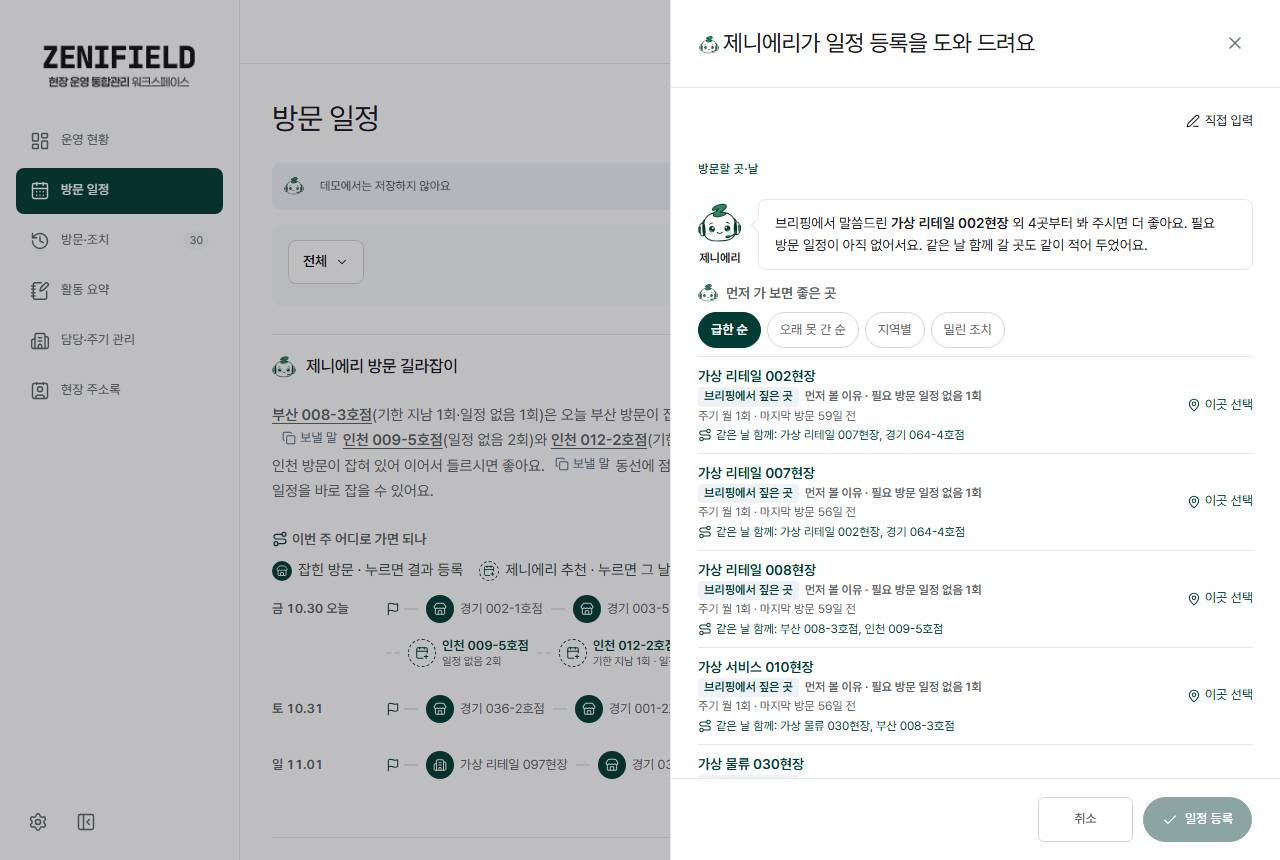
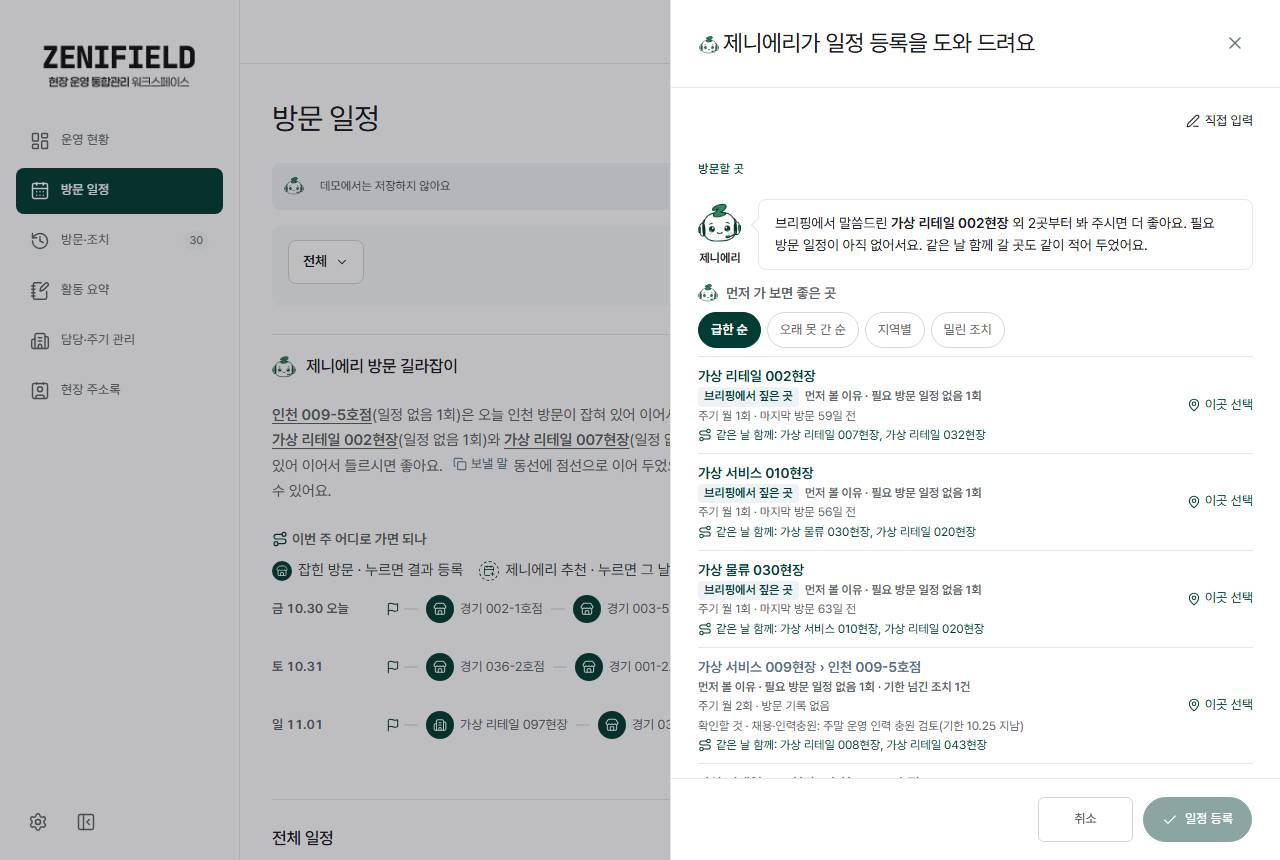
날짜 표기 하나로: 달력 안 날짜 이동·제목 삭제(조회 기간 하나로), 단위별 달력은 조회 기간 주를 따름, 일정 등록 날짜 한 칸으로 합침, 추천 동선 줄 끊김 수정

diff --git a/app/platform/app.tsx b/app/platform/app.tsx
@@ -99,6 +99,8 @@ export default function PlatformApp({initialData,liveMode=false,onSaveLive,onDem
  function chooseType(t:TargetType){setTypeState(t);setKind('');if(t==='site')setStoreState('')}
  // 메뉴·필터 전환은 transition으로: 클릭은 바로 반응하고, 무거운 화면을 그리는 동안 상단 진행 막대를 보인다.
  const [pending,startTransition]=useTransition();
+ // 방문 일정의 단위별·주간 달력은 위 조회 기간 하나로 움직인다(달력 안에 따로 주 이동을 두지 않는다). 처음 들어와 기간이 한 달이면 그 안의 이번 주(또는 첫 주)로 맞춘다
+ useEffect(()=>{const vv=view==='auto'?(me.role==='manager'?'calendar':'units'):view;if(page==='visits'&&(vv==='units'||(vv==='calendar'&&calendarMode==='week'))&&daysBetween(start,end)!==6)setPeriod(...week(now>=start&&now<=end?now:start) as [string,string])},[page,view,calendarMode]);// eslint-disable-line react-hooks/exhaustive-deps
  function setPeriod(a:string,b:string){if(!a||!b||a>b)return;if(daysBetween(a,b)>366){setToast('한 번에 최대 1년 범위로 조회해 주세요.');return}setCustomPeriod(false);startTransition(()=>{setStart(a);setEnd(b)})}
  function go(p:string,k=''){setBriefSite('');window.scrollTo(0,0);setMobile(false);startTransition(()=>{setPage(p);setKind(k)});setMobile(false);setNotice(false);setDetail(null);if(k==='today'){setPeriod(now,now);setView('list')}else setView(k?'list':'auto')}
  function resetFilters(){setDivision('');chooseTeam('');setRegion('');setStatus('');setSearch('');setKind('');setRecordType('all');setPeriod(...monthRange(now) as [string,string])}
@@ -158,7 +160,7 @@ export default function PlatformApp({initialData,liveMode=false,onSaveLive,onDem
  {page==='briefings'&&<div className="weekly-content"><BriefingPage key={briefSite} {...briefingProps} start={start} end={end} setPeriod={setPeriod} initialSite={briefSite}/></div>}
  {page==='sites'&&<SitesGuide c={c}/>}{page==='sites'&&<Hierarchy c={c}/>}{page==='contacts'&&<ContactsGuide c={c}/>}{page==='contacts'&&<ContactDirectory c={c}/>}
  {page==='requirements'&&<><TypeTabs c={c}/><RequirementList c={c}/></>}
- {page==='visits'&&<ScheduleGuide c={c}/>}{page==='visits'&&<section className="panel schedule-panel"><PanelTitle title={kind==='today'?'오늘 일정':'전체 일정'}><div className="segmented">{me.role!=='manager'&&<button className={vview==='units'?'active':''} onClick={()=>setView('units')}>{scopeUnits(c).title}별</button>}<button className={vview==='calendar'&&calendarMode==='month'?'active':''} onClick={()=>{setView('calendar');setCalendarMode('month');setPeriod(...monthRange(start) as [string,string])}}>월간</button><button className={vview==='calendar'&&calendarMode==='week'?'active':''} onClick={()=>{setView('calendar');setCalendarMode('week');setPeriod(...week(now) as [string,string])}}>주간</button><button className={vview==='list'?'active':''} onClick={()=>setView('list')}>목록</button></div><button className="btn small" onClick={exportCsv}><Download size={14}/>CSV</button></PanelTitle><div className="record-type-bar"><select aria-label="방문 대상 유형 필터" value={recordType} onChange={e=>setRecordType(e.target.value)}><option value="all">현장·매장 전체</option><option value="site">현장 방문만</option><option value="store">매장 방문만</option></select><button className="textbtn" onClick={()=>go('requirements','unplanned')}>필요 회차·계획 누락 확인<ChevronRight size={14}/></button></div><div className="tabs">{['','예정','완료','지연','취소'].map(k=><button key={k} className={kind===k?'active':''} onClick={()=>setKind(k)}>{k||'전체 일정'}</button>)}</div>{vview==='units'?<ScheduleUnits c={c} rows={recordRows}/>:vview==='list'?<VisitRecords c={c} rows={recordRows}/>:<VisitCalendar visits={recordRows} start={start} end={end} mode={calendarMode} setPeriod={setPeriod} onMode={setCalendarMode} sname={id=>data.sites.find(s=>s.id===id)?.name||''} uname={uname} targetLabel={v=>`${(v as FieldVisit).targetType==='store'?'[매장]':'[현장]'} ${label(v as FieldVisit)}`} onVisit={v=>open('visit',v,{result:v.status==='completed'})} onAdd={editable?date=>open('visit',undefined,{date,targetType:type}):undefined}/>}</section>}
+ {page==='visits'&&<ScheduleGuide c={c}/>}{page==='visits'&&<section className="panel schedule-panel"><PanelTitle title={kind==='today'?'오늘 일정':'전체 일정'}><div className="segmented">{me.role!=='manager'&&<button className={vview==='units'?'active':''} onClick={()=>{setView('units');setPeriod(...week(now>=start&&now<=end?now:start) as [string,string])}}>{scopeUnits(c).title}별</button>}<button className={vview==='calendar'&&calendarMode==='month'?'active':''} onClick={()=>{setView('calendar');setCalendarMode('month');setPeriod(...monthRange(start) as [string,string])}}>월간</button><button className={vview==='calendar'&&calendarMode==='week'?'active':''} onClick={()=>{setView('calendar');setCalendarMode('week');setPeriod(...week(now) as [string,string])}}>주간</button><button className={vview==='list'?'active':''} onClick={()=>setView('list')}>목록</button></div><button className="btn small" onClick={exportCsv}><Download size={14}/>CSV</button></PanelTitle><div className="record-type-bar"><select aria-label="방문 대상 유형 필터" value={recordType} onChange={e=>setRecordType(e.target.value)}><option value="all">현장·매장 전체</option><option value="site">현장 방문만</option><option value="store">매장 방문만</option></select><button className="textbtn" onClick={()=>go('requirements','unplanned')}>필요 회차·계획 누락 확인<ChevronRight size={14}/></button></div><div className="tabs">{['','예정','완료','지연','취소'].map(k=><button key={k} className={kind===k?'active':''} onClick={()=>setKind(k)}>{k||'전체 일정'}</button>)}</div>{vview==='units'?<ScheduleUnits c={c} rows={recordRows}/>:vview==='list'?<VisitRecords c={c} rows={recordRows}/>:<VisitCalendar visits={recordRows} start={start} end={end} mode={calendarMode} setPeriod={setPeriod} onMode={setCalendarMode} sname={id=>data.sites.find(s=>s.id===id)?.name||''} uname={uname} targetLabel={v=>`${(v as FieldVisit).targetType==='store'?'[매장]':'[현장]'} ${label(v as FieldVisit)}`} onVisit={v=>open('visit',v,{result:v.status==='completed'})} onAdd={editable?date=>open('visit',undefined,{date,targetType:type}):undefined}/>}</section>}
  {(page==='results'||page==='actions')&&<><VisitActionGuide c={c}/><section className="panel"><PanelTitle title="방문·조치 목록"><button className="btn small" onClick={exportCsv}><Download size={14}/>CSV</button></PanelTitle>
  <div className="tabs va-tabs" role="tablist" aria-label="방문·조치 보기">{[['미처리','안 끝난 조치',openIssues.length],['기한 초과','기한 넘긴 조치',openIssues.filter(a=>a.dueDate<now).length],['완료','완료 조치',scopedActions.filter(a=>a.state==='완료').length]].filter(([k,,n])=>(n as number)>0||(page==='actions'&&kind===k)).map(([k,l,n])=><button key={k as string} role="tab" aria-selected={page==='actions'&&kind===k} className={page==='actions'&&kind===k?'active':''} onClick={()=>go('actions',k as string)}>{l}<small>{n}</small></button>)}<span className="va-sep" aria-hidden="true"/><GuideTabs bare c={c} rows={scopedVisits.filter(v=>(recordType==='all'||v.targetType===recordType))} start={start} end={end} now={now} kind={page==='results'?kind:'-'} setKind={k=>{if(page!=='results')go('results',k);else setKind(k)}}/></div>
  {page==='results'?<><div className="list-tools"><select aria-label="대상 유형 필터" value={recordType} onChange={e=>setRecordType(e.target.value)}><option value="all">현장·매장 전체</option><option value="site">현장만</option><option value="store">매장만</option></select></div><VisitRecords c={c} rows={recordRows} guide={kind}/></>:<ActionRecords c={c} rows={issueRows} tools={<select aria-label="대상 유형 필터" value={recordType} onChange={e=>setRecordType(e.target.value)}><option value="all">현장·매장 전체</option><option value="site">현장만</option><option value="store">매장만</option></select>}/>}</section></>}

diff --git a/app/platform/ai-plan.tsx b/app/platform/ai-plan.tsx
@@ -19,17 +19,16 @@ export function AiPlanForm({c,modal,error,onSave,onClose}:{c:Context;modal:any;e
  const pick=(t:Target)=>{setType(t.type);setSite(t.siteId);setStore(t.storeId||'')};
  const target=c.targets.find(t=>t.id===(type==='store'?store:site)),owners=(target?.managerIds||[]).filter(id=>c.me.role!=='manager'||id===c.me.id),[visitor,setVisitor]=useState(c.me.id),owner=owners.includes(visitor)?visitor:owners[0]||'';
  const parents=c.data.sites.filter(s=>c.targets.some(t=>t.siteId===s.id)),stores=c.data.stores.filter(s=>s.siteId===site&&c.targets.some(t=>t.id===s.id));
- const ready=(!!plan||!!pickedDay)&&!!target&&!!owner&&/^\d{4}-\d{2}-\d{2}$/.test(values.plannedDate);
+ const ready=!!target&&!!owner&&/^\d{4}-\d{2}-\d{2}$/.test(values.plannedDate);
  // 초안(AI·데모)은 빈칸만 채운다. 사람이 고른 값이 항상 우선: 내 일정에서 고른 날짜, 일정 잡기로 정해진 대상(locked), 이미 고른 대상·목적.
  function draft(d:AiPlanDraft){setPlan(d);const valid=(x:string)=>/^\d{4}-\d{2}-\d{2}$/.test(x);setValues({plannedDate:pickedDay||(valid(d.plannedDate)?d.plannedDate:values.plannedDate),time:/^\d{2}:\d{2}$/.test(d.time)?d.time:values.time,purpose:values.purpose!==purposes[0]?values.purpose:purposes.includes(d.purpose)?d.purpose:purposes[0],precheck:values.precheck||d.precheck});setHint(d.target);const t=!locked&&!target&&matchTarget(c.targets,d.target);if(t)pick(t)}
  function submit(e:FormEvent<HTMLFormElement>){e.preventDefault();if(!ready)return;onSave('visit',{entry:'manual',...values,targetType:type,siteId:site,storeId:type==='store'?store:null,visitorId:owner,status:'planned',actualDate:null,actualTime:'',detail:'',notes:'',result:'',cancelReason:'',requirementId:modal.requirementId||pickedReq||null})}
  return <form className="record-form ai-form" onSubmit={submit}><div className="form-scroll"><div className="ai-switch"><button type="button" className="textbtn" onClick={()=>c.open('visit',undefined,{...modal,ai:false,manual:true})}><PenLine size={14}/>직접 입력</button></div>
  <fieldset className="form-grid" disabled={!c.editable||c.saving}>
  <Permissions need={['microphone']}/>
- <div className="form-section first wide">방문할 곳·날</div>
+
+ {!target&&!locked&&<div className="form-section first wide">방문할 곳</div>}
  {!target&&!locked&&<VisitSuggest c={c} visitor={owner||c.me.id} onPick={(x,pre)=>{pick(x);if(pre)setValues(v=>({...v,precheck:v.precheck||pre}))}}/>}
- {target?<ScheduleHints c={c} target={target} visitor={owner||c.me.id} picked={pickedDay} onPick={(d,tm,rid)=>{setPickedDay(d);setPickedReq(rid);setValues(v=>({...v,plannedDate:d,time:tm||v.time}))}}/>
-  :<MySchedule c={c} visitor={owner||c.me.id} window={modal.requirementId&&modal.dueDate?{start:c.now,end:modal.dueDate}:null} picked={pickedDay} onPick={d=>{setPickedDay(d);setSeed(`${Number(d.slice(5,7))}월 ${Number(d.slice(8))}일`)}}/>}
  <div className="form-section wide">말·글로 일정 입력</div>
  <AiComposer mode="plan" seed={seed} demo={c.demo!==false} onDraft={d=>draft(d as unknown as AiPlanDraft)}/>
  <div className="form-section wide">방문 대상</div>
@@ -39,10 +38,14 @@ export function AiPlanForm({c,modal,error,onSave,onClose}:{c:Context;modal:any;e
  <Field label={type==='site'?'방문 현장 *':'상위 현장 *'} wide><select required value={site} disabled={locked} onChange={e=>{setSite(e.target.value);setStore('')}}><option value="">현장 선택</option>{parents.map(s=><option key={s.id} value={s.id}>{s.name} · {s.client}</option>)}</select></Field>
  {type==='store'&&<Field label="방문 매장 *" wide><select required value={store} disabled={locked} onChange={e=>setStore(e.target.value)}><option value="">소속 매장 선택</option>{stores.map(s=><option key={s.id} value={s.id}>{s.name} · {s.code}</option>)}</select></Field>}
  {owners.length>1&&<Field label="방문자 *"><select value={owner} onChange={e=>setVisitor(e.target.value)}>{owners.map(id=><option key={id} value={id}>{c.uname(id)}</option>)}</select></Field>}
- {(plan||pickedDay)&&<><div className="form-section wide">{plan&&<AiMark/>}{plan?'AI 일정 초안 검토':'일정 검토'}</div>
+ <div className="form-section wide">방문 날짜</div>
+ {target?<ScheduleHints c={c} target={target} visitor={owner||c.me.id} picked={pickedDay} onPick={(d,tm,rid)=>{setPickedDay(d);setPickedReq(rid);setValues(v=>({...v,plannedDate:d,time:tm||v.time}))}}/>
+  :<MySchedule c={c} visitor={owner||c.me.id} window={modal.requirementId&&modal.dueDate?{start:c.now,end:modal.dueDate}:null} picked={pickedDay} onPick={d=>{setPickedDay(d);setValues(v=>({...v,plannedDate:d}));setSeed(`${Number(d.slice(5,7))}월 ${Number(d.slice(8))}일`)}}/>}
  <Field label="방문 예정일 *"><input type="date" required value={values.plannedDate} onChange={e=>setValues({...values,plannedDate:e.target.value})}/></Field><Field label="예정 시간"><input type="time" value={values.time} onChange={e=>setValues({...values,time:e.target.value})}/></Field>
+ <div className="form-section wide">{plan&&<AiMark/>}{plan?'AI 초안 검토':'방문 내용'}</div>
+ {<>
  <Field label="방문 목적 *" wide><select value={values.purpose} onChange={e=>setValues({...values,purpose:e.target.value})}>{purposes.map(p=><option key={p}>{p}</option>)}</select></Field>
- <Field label="사전 확인사항" wide><textarea rows={2} maxLength={1500} value={values.precheck} onChange={e=>setValues({...values,precheck:e.target.value})}/></Field>
+ <Field label="사전 확인사항 (선택)" wide><textarea rows={2} maxLength={1500} value={values.precheck} onChange={e=>setValues({...values,precheck:e.target.value})}/></Field>
  {plan?.confidence==='low'&&<p className="form-hint wide warn">확신이 낮아요. 날짜와 대상을 꼭 확인해 주세요.</p>}</>}
  </fieldset>{error&&<p className="form-error" role="alert">{error}</p>}</div><div className="form-footer"><button type="button" className="btn" onClick={onClose}>취소</button>{c.editable&&<button className="btn primary" type="submit" disabled={c.saving||!ready}><Check size={16}/>{c.saving?'저장 중':'일정 등록'}</button>}</div></form>
 }

diff --git a/app/visit-calendar.tsx b/app/visit-calendar.tsx
@@ -10,13 +10,12 @@ export function VisitCalendar({visits,start,end,mode,setPeriod,onMode,sname,unam
  const label=(v:Visit)=>targetLabel?targetLabel(v):sname(v.siteId);
  const now=today();const [selected,setSelected]=useState(now);const anchor=start||now;const selectedDate=(!start||selected>=start)&&(!end||selected<=end)?selected:anchor;
  const dates=mode==='week'?Array.from({length:7},(_,i)=>shift(week(anchor)[0],i)):(()=>{const [first,last]=monthRange(anchor);const offset=(new Date(first+'T12:00:00Z').getUTCDay()+6)%7;const count=Number(last.slice(8));const length=Math.ceil((count+offset)/7)*7;return Array.from({length},(_,i)=>shift(first,i-offset))})();
- function move(delta:number){if(mode==='week'){const [a,b]=week(shift(anchor,delta*7));setPeriod(a,b)}else{const d=new Date(anchor.slice(0,7)+'-01T12:00:00Z');d.setUTCMonth(d.getUTCMonth()+delta);const [a,b]=monthRange(d.toISOString().slice(0,10));setPeriod(a,b)}}
  function changeMode(m:'week'|'month'){onMode(m);const [a,b]=m==='week'?week(anchor):monthRange(anchor);setPeriod(a,b)}
  const dated=(v:Visit)=>v.status==='completed'?v.actualDate:v.plannedDate;
  visits=visits.filter(v=>inRange(dated(v),start,end));
  const dayItems=visits.filter(v=>dated(v)===selectedDate).sort((a,b)=>a.time.localeCompare(b.time));
  return <div className={'calendar '+mode+(compact?' compact':'')}>
- <div className="calendar-toolbar"><div className="calendar-navigation"><h3>{mode==='month'?anchor.slice(0,4)+'년 '+Number(anchor.slice(5,7))+'월':short(dates[0])+' – '+short(dates[6])}</h3><button className="iconbtn" aria-label={mode==='month'?'이전 달':'이전 주'} onClick={()=>move(-1)}><ChevronLeft size={16}/></button><button className="iconbtn" aria-label={mode==='month'?'다음 달':'다음 주'} onClick={()=>move(1)}><ChevronRight size={16}/></button><button className="today-btn" onClick={()=>{const [a,b]=mode==='week'?week(now):monthRange(now);setPeriod(a,b);setSelected(now)}}>오늘</button></div>{compact&&<div className="segmented"><button className={mode==='week'?'active':''} onClick={()=>changeMode('week')}>주간</button><button className={mode==='month'?'active':''} onClick={()=>changeMode('month')}>월간</button></div>}</div>
+ {/* 달력 안에 날짜 제목·이동 화살표를 두지 않는다: 보이는 기간은 화면 위 조회 기간 [◀ 기간 ▶] 하나로만 바꾼다 */}<div className="calendar-toolbar">{compact&&<div className="segmented"><button className={mode==='week'?'active':''} onClick={()=>changeMode('week')}>주간</button><button className={mode==='month'?'active':''} onClick={()=>changeMode('month')}>월간</button></div>}</div>
  <div className="calendar-legend">{[['예정','blue'],['완료','green'],['지연','red'],['취소','gray']].map(([s,c])=><span key={s}><i className={c}/>{s}</span>)}<span className="calendar-help">날짜 선택으로 일정을 확인하세요</span></div>
  <div className="calendar-grid" role="group" aria-label={mode==='week'?'주간 방문 캘린더':'월간 방문 캘린더'}>{mode==='month'&&weekdays.map(d=><div className="calendar-weekday" key={d}>{d}</div>)}{dates.map((d,i)=>{const list=visits.filter(v=>dated(v)===d).sort((a,b)=>a.time.localeCompare(b.time));return <div key={d} className={'calendar-day '+(d===now?'is-today ':'')+(d===selectedDate?'is-selected ':'')+(mode==='month'&&d.slice(0,7)!==anchor.slice(0,7)?'outside':'')}><button className="calendar-date" aria-label={d+' 일정 선택'} aria-pressed={d===selectedDate} onClick={()=>setSelected(d)}>{mode==='week'&&<span>{weekdays[i]}</span>}<b>{Number(d.slice(8))}</b>{list.length>0&&<em>{list.length}</em>}</button><div className="calendar-events">{list.slice(0,mode==='month'?2:compact?2:5).map(v=><button className={'calendar-event '+({예정:'blue',완료:'green',지연:'red',취소:'gray'} as any)[visitState(v,now)]} key={v.id} onClick={()=>{setSelected(d);onVisit(v)}} title={`${label(v)} · ${uname(v.visitorId)} · ${v.purpose} · ${visitState(v,now)}`}><span>{v.time||'시간 미정'} <i>{visitState(v,now)}</i></span><b>{label(v)}</b><small>{uname(v.visitorId)} · {v.purpose}</small></button>)}{list.length>(mode==='month'?2:compact?2:5)&&<button className="more-events" onClick={()=>setSelected(d)}>+ {list.length-(mode==='month'?2:compact?2:5)}개 더 보기</button>}{!list.length&&mode==='week'&&<span className="no-calendar-event">일정 없음</span>}</div></div>})}</div>
  <div className="selected-day"><div><span className="selected-day-icon"><CalendarIcon/></span><b>{nice(selectedDate)}</b><span>{dayItems.length}건의 방문</span>{onAdd&&<button className="textbtn" onClick={()=>onAdd(selectedDate)}><Plus size={14}/>일정 등록</button>}</div>{dayItems.length?<div className="selected-events">{dayItems.map(v=><button key={v.id} className="selected-event" onClick={()=>onVisit(v)}><span className="selected-time">{v.time||'미정'}</span><div><b>{label(v)}</b><small>{uname(v.visitorId)} · {v.purpose}</small></div><Badge>{visitState(v,now)}</Badge><ChevronRight size={14}/></button>)}</div>:<p className="selected-empty">선택한 날짜에 등록된 방문이 없습니다.</p>}</div>

diff --git a/app/platform/views.tsx b/app/platform/views.tsx
@@ -47,13 +47,13 @@ function PrioritySchedule({c,rows}:{c:Context;rows:FieldVisit[]}){
 }
 // 방문 일정 직급별 달력(파트장 이상): 행 = 바로 아래 단위(파트장 잡매니저·팀장 파트·사업부장/관리자 팀), 열 = 한 주 7일.
 // 칸 = 그날 일정 수(완료/예정, 지연 있으면 지연 수). 칸이나 이름을 누르면 그 단위로 좁힌다. 조직 순서, 순위 없음.
+// 보이는 주 = 위 조회 기간(시작일이 든 주). 주 이동은 조회 기간 [◀ ▶] 하나로만 한다.
 export function ScheduleUnits({c,rows}:{c:Context;rows:FieldVisit[]}){
- const s=scopeUnits(c),[wk,setWk]=useState(()=>weekOf(c.now)),days=Array.from({length:7},(_,i)=>dayShift(wk,i));
+ const s=scopeUnits(c),wk=weekOf(c.start),days=Array.from({length:7},(_,i)=>dayShift(wk,i));
  const list=useMemo(()=>s.units.map(u=>{const ids=new Set(u.targets.map(t=>t.id)),cells=days.map(d=>{const vs=rows.filter(v=>ids.has(targetOf(v))&&(v.status==='completed'?v.actualDate:v.plannedDate)===d);return {d,n:vs.length,done:vs.filter(v=>v.status==='completed').length,late:vs.filter(v=>v.status==='planned'&&(v.plannedDate||'')<c.now).length}});
   const m=aggregate(u.targets.filter(t=>t.type===c.type),c.visits,c.start,c.end,c.now);return {u,cells,gap:m.delayed+m.unplanned}}),[s.units,rows,wk,c.visits,c.type,c.start,c.end,c.now]);
  if(!list.length)return <Empty text="이 기간 일정이 없어요."/>;
  return <div className="unit-cal">
-  <div className="unit-cal-nav"><button type="button" className="iconbtn" aria-label="이전 주" onClick={()=>setWk(dayShift(wk,-7))}><ChevronLeft size={16}/></button><b>{short(days[0])} – {short(days[6])}</b><button type="button" className="iconbtn" aria-label="다음 주" onClick={()=>setWk(dayShift(wk,7))}><ChevronRight size={16}/></button>{wk!==weekOf(c.now)&&<button type="button" className="textbtn" onClick={()=>setWk(weekOf(c.now))}>이번 주</button>}</div>
   <div className="unit-cal-scroll"><table className="unit-cal-table"><caption className="sr-only">{s.title}별 주간 방문 일정</caption>
    <thead><tr><th scope="col">{s.title}</th>{days.map(d=><th key={d} scope="col" className={d===c.now?'today':''}>{['월','화','수','목','금','토','일'][days.indexOf(d)]}<small>{short(d)}</small></th>)}<th scope="col">일정 잡을 회차</th></tr></thead>
    <tbody>{list.map(x=><tr key={x.u.key}><th scope="row"><button type="button" className="link" onClick={()=>s.drill(x.u.key)}>{x.u.label}</button></th>

diff --git a/app/platform/styles.css b/app/platform/styles.css
@@ -1099,3 +1099,7 @@ html.zf-calm .zf-ai-mark,html.zf-calm .zeni-working-dots i{animation:none!import
 .settings [role=tabpanel]>.panel,.settings [role=tabpanel]>.panel::before{border-top:0!important;box-shadow:none}
 .bulk-table th:nth-child(1){width:56px}.bulk-table th:nth-child(2){width:32%}.bulk-table th:nth-child(3){width:72px}
 .app-shell .ai-brief-cheer h3{display:flex;align-items:center;gap:6px}.app-shell .ai-brief-cheer h3 .copy-button{margin-left:auto}
+/* 추천 동선 한 줄이 중간에 끊겨 보이지 않게: 줄바꿈 대신 가로로 이어 두고 넘치면 그 줄만 가로 스크롤 */
+.route-line{flex-wrap:nowrap;overflow-x:auto;overscroll-behavior-x:contain;scrollbar-width:thin;padding-bottom:2px}
+.route-line>li{flex:none}
+.route-map>li{min-width:0}

diff --git a/PROJECT_RULE.md b/PROJECT_RULE.md
@@ -39,7 +39,7 @@
 | Guard | Condition → Action |
 |-------|-------------------|
 | DC-DESIGN | UI·디자인 변경 → `docs/DESIGN-zenielfield.md` 해당 절 확인 → 지침에 없거나 다르면 지침 먼저 갱신 → **같은 변경에서 `AGENTS.md` "현재 디자인 결정"과 아래 DC-DESIGN-* 행도 갱신(빠지면 미완료)** → 구현 → 390/820/1280px 실화면 검증 → `docs/` 기록. 대체·폐기된 기준은 `docs/design-history.md`로 옮기고 지침·룰에 남기지 않음 |
-| DC-DESIGN-SHELL | 메뉴 = 모든 직급 같은 이름·같은 화면 구성(범위만 직급별): 운영 현황·방문 일정·방문 기록·후속 조치·활동 요약·담당·주기 관리·현장 주소록, 설정 = 사이드바 하단 아이콘, 페이지 키 불변. 로고 `BrandIdentity` 188/180/158px. 현재 메뉴 딥그린 채움·점 금지. 데모 = 상단 띠 하나, 운영과 같은 구성. 반응형 ≤760/761–1023/≥1024/≥1440만. 조회 필터 = 범위 버튼 + 기간 하나, 761px 이상 모든 화면 한 줄 |
+| DC-DESIGN-SHELL | 날짜 = 위 조회 기간 하나(달력 안 날짜 이동·제목 금지, 길라잡이는 늘 이번 주, 일정 등록 날짜는 한 칸). 메뉴 = 모든 직급 같은 이름·같은 화면 구성(범위만 직급별): 운영 현황·방문 일정·방문 기록·후속 조치·활동 요약·담당·주기 관리·현장 주소록, 설정 = 사이드바 하단 아이콘, 페이지 키 불변. 로고 `BrandIdentity` 188/180/158px. 현재 메뉴 딥그린 채움·점 금지. 데모 = 상단 띠 하나, 운영과 같은 구성. 반응형 ≤760/761–1023/≥1024/≥1440만. 조회 필터 = 범위 버튼 + 기간 하나, 761px 이상 모든 화면 한 줄 |
 | DC-DESIGN-REGISTER | 화면마다 등록 하나(`primary` entity·label·short): PC 머리 버튼, 모바일 하단 가운데 + 버튼 같은 동작·짧은 이름, 모바일 머리 등록 숨김. 하단 메뉴 홈·방문 일정·등록·방문·조치·더보기. 화면 변경 커밋은 `npm run screenshots`로 `docs/screenshots` 갱신. 갱신 2026-10-30 |
 | DC-DESIGN-VISUAL | 딥그린 `#003c33` 단일 강조, 상태색 완료/예정 `#516e8a`/지연 `#b42318`/미등록 `#8a4b00`, 빨강 = 기한 넘긴 사실만, 옅은 표면 2개만. Pretendard 하나, 글자 ≥11px·축 12px, keep-all. Lucide 14/16/20/24·선 1.75, 터치 44px. 이동용 ChevronRight는 단독 버튼이 아니라 링크 제목 바로 옆 14px 아이콘(한 초점/클릭 영역). 패널 흰색·상단 1px 선. 부제 설명·지표 꼬리·인쇄 버튼·표 제목 건수 금지. 문단은 칸(주제)마다 하나·문장별 줄 나누기 금지, 본문 15px·행간 1.7·`--zf-read-measure`(68ch) |
 | DC-DESIGN-ZENIERI | AI 표시 = `AiMark`(`zenieri-chatbot.png`, 24/20/44px) 하나, 정리·브리핑 머리·말풍선은 7초마다 통통(`zeni-hop`, 설정 → 내 계정 스위치 `zf-calm`·reduced-motion 정지). 정리 칸 제목은 화면별 상황 질문 + 대응 질문. 문장 = 제니에리 해요체 완결 문장·직함 호칭, 메모체·콜론 나열 금지(AI `briefPrompt`·규칙 `ruleBrief` 모두). 권한 안내는 거부 때만. 지침 9-B |

diff --git a/AGENTS.md b/AGENTS.md
@@ -49,6 +49,7 @@
 - 메뉴(업무 흐름순, 모든 직급 같은 이름·같은 구성 — 내용 범위만 직급별): 운영 현황 · 방문 일정 · 방문·조치(방문 기록+후속 조치 한 화면) · 활동 요약 · 담당·주기 관리 · 현장 주소록. 설정 = 사이드바 하단 아이콘(관리자·사업부장). 통계·보고서 없음. 페이지 키 불변.
 - 로고 `public/brand/zenifield_logo.png`(`BrandIdentity`) 로그인188/사이드바180/모바일158px. 사이드바 현재 메뉴 = 딥그린 채움+흰 글자, 점 표식 금지(빨간 점은 알림 종 전용).
 - 데모 = 상단 반투명 제니에리 띠 하나(역할 선택 포함), 화면 구성은 운영과 같음. 계정 동작은 오른쪽 위 아바타 메뉴 하나.
+- 날짜는 위 조회 기간 하나로만 바꾼다(달력 안 날짜 이동·제목 없음, 단위별·주간 달력은 그 주로 맞춤). 방문 길라잡이는 늘 이번 주. 일정 등록 날짜는 `방문 날짜` 한 칸(칩+입력).
 - 반응형 ≤760 / 761–1023 / ≥1024 / ≥1440만. 조회 필터는 761px 이상 한 줄·모바일 두 줄. 390·820·1280px 확인.
 - 등록 동작은 화면마다 하나: PC 머리 버튼 / 모바일 하단 가운데 + 버튼(같은 동작, 짧은 이름), 모바일 머리 등록 버튼 없음. 하단 메뉴 홈·방문 일정·등록·방문·조치·더보기. 화면을 바꾸면 `npm run screenshots`로 README 화면 다시 찍기.
 
